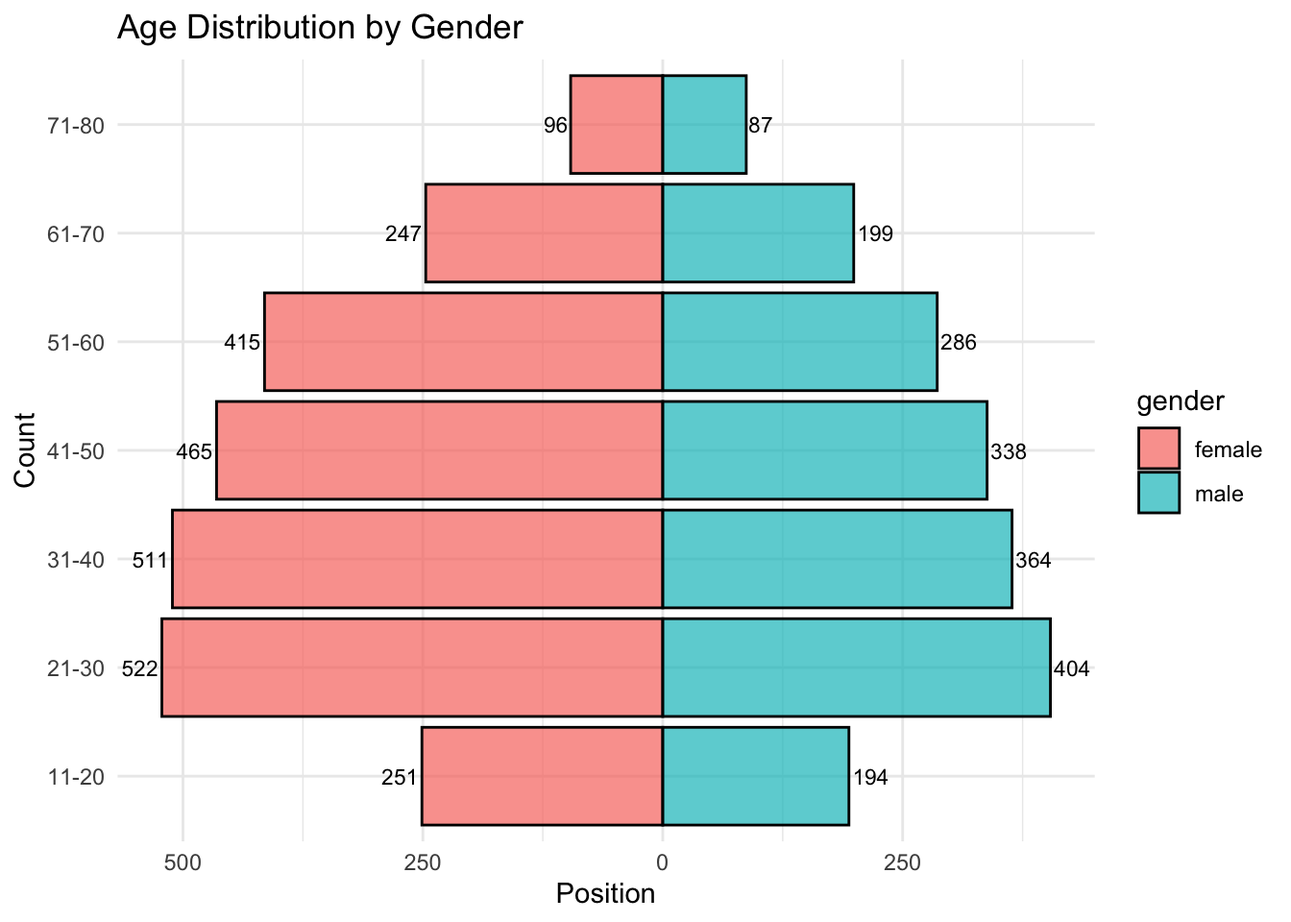
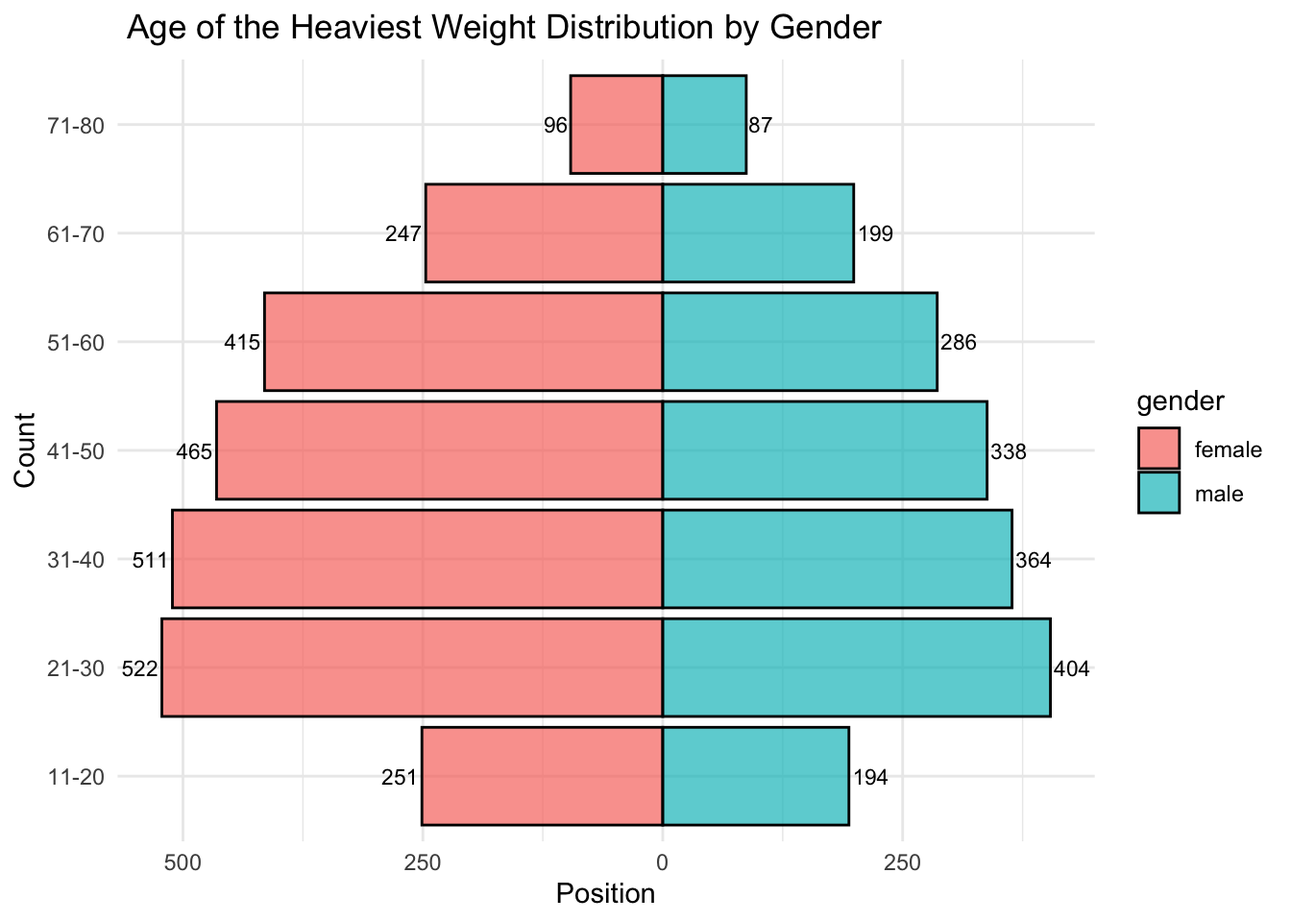
update text

Changed region(s): [[0.0938, 0.0, 0.6875, 0.0625]]

diff --git a/docs/results.html b/docs/results.html
@@ -183,8 +183,12 @@ pre > code.sourceCode > span > a:first-child::before { text-decoration: underlin
   <li><a href="#alluvial---bmi-level-change" id="toc-alluvial---bmi-level-change" class="nav-link" data-scroll-target="#alluvial---bmi-level-change"><span class="header-section-number">3.4</span> Alluvial - BMI Level Change</a></li>
   <li><a href="#grouped-bar-chart---current-bmi-by-age" id="toc-grouped-bar-chart---current-bmi-by-age" class="nav-link" data-scroll-target="#grouped-bar-chart---current-bmi-by-age"><span class="header-section-number">3.5</span> Grouped Bar Chart - Current BMI by Age</a></li>
   <li><a href="#violin-plot---bmi-distribution-by-race" id="toc-violin-plot---bmi-distribution-by-race" class="nav-link" data-scroll-target="#violin-plot---bmi-distribution-by-race"><span class="header-section-number">3.6</span> Violin Plot - BMI Distribution by Race</a></li>
-  <li><a href="#pyramid-chart---age-of-the-heaviest-weight-distribution-by-gender" id="toc-pyramid-chart---age-of-the-heaviest-weight-distribution-by-gender" class="nav-link" data-scroll-target="#pyramid-chart---age-of-the-heaviest-weight-distribution-by-gender"><span class="header-section-number">3.7</span> Pyramid Chart - Age of the Heaviest Weight Distribution by Gender</a></li>
-  <li><a href="#correlation-analysis-between-factors-and-bmi-change" id="toc-correlation-analysis-between-factors-and-bmi-change" class="nav-link" data-scroll-target="#correlation-analysis-between-factors-and-bmi-change"><span class="header-section-number">3.8</span> Correlation Analysis Between Factors and BMI Change</a></li>
+  <li><a href="#pyramid-chart---age-distribution-of-the-heaviest-weight-by-gender" id="toc-pyramid-chart---age-distribution-of-the-heaviest-weight-by-gender" class="nav-link" data-scroll-target="#pyramid-chart---age-distribution-of-the-heaviest-weight-by-gender"><span class="header-section-number">3.7</span> Pyramid Chart - Age Distribution of the Heaviest Weight by Gender</a></li>
+  <li><a href="#correlation-analysis-between-factors-and-bmi-change" id="toc-correlation-analysis-between-factors-and-bmi-change" class="nav-link" data-scroll-target="#correlation-analysis-between-factors-and-bmi-change"><span class="header-section-number">3.8</span> Correlation Analysis Between Factors and BMI Change</a>
+  <ul class="collapse">
+  <li><a href="#radar-chart---weight-loss-intentions-behavior-by-loss-weight-methods" id="toc-radar-chart---weight-loss-intentions-behavior-by-loss-weight-methods" class="nav-link" data-scroll-target="#radar-chart---weight-loss-intentions-behavior-by-loss-weight-methods"><span class="header-section-number">3.8.1</span> Radar Chart - Weight Loss Intentions &amp; Behavior by Loss Weight Methods</a></li>
+  <li><a href="#mosaic-plot---dieting-and-bmi" id="toc-mosaic-plot---dieting-and-bmi" class="nav-link" data-scroll-target="#mosaic-plot---dieting-and-bmi"><span class="header-section-number">3.8.2</span> Mosaic Plot - Dieting and BMI</a></li>
+  </ul></li>
   </ul>
 <div class="toc-actions"><div><i class="bi bi-github"></i></div><div class="action-links"><p><a href="https://github.com/YunjiQ/NHANESweight/edit/main/results.qmd" class="toc-action">Edit this page</a></p><p><a href="https://github.com/YunjiQ/NHANESweight/issues/new" class="toc-action">Report an issue</a></p></div></div></nav>
     </div>
@@ -350,35 +354,32 @@ pre > code.sourceCode > span > a:first-child::before { text-decoration: underlin
 </div>
 </div>
 </section>
-<section id="pyramid-chart---age-of-the-heaviest-weight-distribution-by-gender" class="level2" data-number="3.7">
-<h2 data-number="3.7" class="anchored" data-anchor-id="pyramid-chart---age-of-the-heaviest-weight-distribution-by-gender"><span class="header-section-number">3.7</span> Pyramid Chart - Age of the Heaviest Weight Distribution by Gender</h2>
+<section id="pyramid-chart---age-distribution-of-the-heaviest-weight-by-gender" class="level2" data-number="3.7">
+<h2 data-number="3.7" class="anchored" data-anchor-id="pyramid-chart---age-distribution-of-the-heaviest-weight-by-gender"><span class="header-section-number">3.7</span> Pyramid Chart - Age Distribution of the Heaviest Weight by Gender</h2>
+<p>This chart counts the age of heaviest weight by gender and segmented into distinct age groups, showing some noteworthy patterns in weight reporting trends. For most age groups, females reported their heaviest weight in higher numbers compared to males. But in our dataset, the total number of male and female are different. The age groups of 21-30 and 31-40 stand out with the highest counts of reported heaviest weight for both genders. This suggests that these age ranges are critical periods where individuals are most likely to gain a heaviest weight. The counts generally decrease for both genders as age increases, particularly beyond the age of 60.</p>
 <div class="cell">
 <details>
 <summary>Code</summary>
-<div class="sourceCode cell-code" id="cb7"><pre class="sourceCode r code-with-copy"><code class="sourceCode r"><span id="cb7-1"><a href="#cb7-1" aria-hidden="true" tabindex="-1"></a><span class="co"># min(whq$age_heaviest_weight) # 12</span></span>
-<span id="cb7-2"><a href="#cb7-2" aria-hidden="true" tabindex="-1"></a><span class="co"># max(whq$age_heaviest_weight) # 99999</span></span>
-<span id="cb7-3"><a href="#cb7-3" aria-hidden="true" tabindex="-1"></a><span class="co"># nrow(whq[whq$age_heaviest_weight &gt; 80, ]) # 21  </span></span>
-<span id="cb7-4"><a href="#cb7-4" aria-hidden="true" tabindex="-1"></a></span>
-<span id="cb7-5"><a href="#cb7-5" aria-hidden="true" tabindex="-1"></a>whq<span class="sc">$</span>age_group <span class="ot">&lt;-</span> <span class="fu">cut</span>(whq<span class="sc">$</span>age_heaviest_weight,</span>
-<span id="cb7-6"><a href="#cb7-6" aria-hidden="true" tabindex="-1"></a>                     <span class="at">breaks =</span> <span class="fu">c</span>(<span class="dv">10</span>, <span class="dv">20</span>, <span class="dv">30</span>, <span class="dv">40</span>, <span class="dv">50</span>, <span class="dv">60</span>, <span class="dv">70</span>, <span class="dv">80</span>),</span>
-<span id="cb7-7"><a href="#cb7-7" aria-hidden="true" tabindex="-1"></a>                     <span class="at">labels =</span> <span class="fu">c</span>(<span class="st">"11-20"</span>, <span class="st">"21-30"</span>, <span class="st">"31-40"</span>, <span class="st">"41-50"</span>, <span class="st">"51-60"</span>, <span class="st">"61-70"</span>, <span class="st">"71-80"</span>),</span>
-<span id="cb7-8"><a href="#cb7-8" aria-hidden="true" tabindex="-1"></a>                     <span class="at">include.lowest =</span> <span class="cn">TRUE</span>)</span>
-<span id="cb7-9"><a href="#cb7-9" aria-hidden="true" tabindex="-1"></a></span>
-<span id="cb7-10"><a href="#cb7-10" aria-hidden="true" tabindex="-1"></a>plot_data <span class="ot">&lt;-</span> whq <span class="sc">%&gt;%</span></span>
-<span id="cb7-11"><a href="#cb7-11" aria-hidden="true" tabindex="-1"></a>  <span class="fu">group_by</span>(age_group, gender) <span class="sc">%&gt;%</span></span>
-<span id="cb7-12"><a href="#cb7-12" aria-hidden="true" tabindex="-1"></a>  <span class="fu">summarise</span>(<span class="at">count =</span> <span class="fu">n</span>()) <span class="sc">%&gt;%</span></span>
-<span id="cb7-13"><a href="#cb7-13" aria-hidden="true" tabindex="-1"></a>  <span class="fu">ungroup</span>()</span>
-<span id="cb7-14"><a href="#cb7-14" aria-hidden="true" tabindex="-1"></a></span>
-<span id="cb7-15"><a href="#cb7-15" aria-hidden="true" tabindex="-1"></a>plot_data<span class="sc">$</span>count[plot_data<span class="sc">$</span>gender <span class="sc">==</span> <span class="st">"female"</span>] <span class="ot">&lt;-</span> <span class="sc">-</span>plot_data<span class="sc">$</span>count[plot_data<span class="sc">$</span>gender <span class="sc">==</span> <span class="st">"female"</span>]</span>
-<span id="cb7-16"><a href="#cb7-16" aria-hidden="true" tabindex="-1"></a></span>
-<span id="cb7-17"><a href="#cb7-17" aria-hidden="true" tabindex="-1"></a><span class="fu">ggplot</span>(plot_data, <span class="fu">aes</span>(<span class="at">x =</span> count, <span class="at">y =</span> age_group, <span class="at">fill =</span> gender)) <span class="sc">+</span></span>
-<span id="cb7-18"><a href="#cb7-18" aria-hidden="true" tabindex="-1"></a>  <span class="fu">geom_bar</span>(<span class="at">stat =</span> <span class="st">"identity"</span>, <span class="at">position =</span> <span class="st">"identity"</span>, <span class="at">color =</span> <span class="st">"black"</span>, <span class="at">alpha =</span> <span class="fl">0.7</span>) <span class="sc">+</span></span>
-<span id="cb7-19"><a href="#cb7-19" aria-hidden="true" tabindex="-1"></a>  <span class="fu">geom_text</span>(<span class="fu">aes</span>(<span class="at">label =</span> <span class="fu">abs</span>(count), <span class="at">hjust =</span> <span class="fu">ifelse</span>(count <span class="sc">&lt;</span> <span class="dv">0</span>, <span class="fl">1.1</span>, <span class="sc">-</span><span class="fl">0.1</span>)), <span class="at">color =</span> <span class="st">"black"</span>, <span class="at">size =</span> <span class="dv">3</span>) <span class="sc">+</span></span>
-<span id="cb7-20"><a href="#cb7-20" aria-hidden="true" tabindex="-1"></a>  <span class="fu">labs</span>(<span class="at">title =</span> <span class="st">"Age Distribution by Gender"</span>,</span>
-<span id="cb7-21"><a href="#cb7-21" aria-hidden="true" tabindex="-1"></a>       <span class="at">x =</span> <span class="st">"Position"</span>,</span>
-<span id="cb7-22"><a href="#cb7-22" aria-hidden="true" tabindex="-1"></a>       <span class="at">y =</span> <span class="st">"Count"</span>) <span class="sc">+</span></span>
-<span id="cb7-23"><a href="#cb7-23" aria-hidden="true" tabindex="-1"></a>  <span class="fu">scale_x_continuous</span>(<span class="at">labels =</span> abs) <span class="sc">+</span> </span>
-<span id="cb7-24"><a href="#cb7-24" aria-hidden="true" tabindex="-1"></a>  <span class="fu">theme_minimal</span>()</span></code><button title="Copy to Clipboard" class="code-copy-button"><i class="bi"></i></button></pre></div>
+<div class="sourceCode cell-code" id="cb7"><pre class="sourceCode r code-with-copy"><code class="sourceCode r"><span id="cb7-1"><a href="#cb7-1" aria-hidden="true" tabindex="-1"></a>whq<span class="sc">$</span>age_group <span class="ot">&lt;-</span> <span class="fu">cut</span>(whq<span class="sc">$</span>age_heaviest_weight,</span>
+<span id="cb7-2"><a href="#cb7-2" aria-hidden="true" tabindex="-1"></a>                     <span class="at">breaks =</span> <span class="fu">c</span>(<span class="dv">10</span>, <span class="dv">20</span>, <span class="dv">30</span>, <span class="dv">40</span>, <span class="dv">50</span>, <span class="dv">60</span>, <span class="dv">70</span>, <span class="dv">80</span>),</span>
+<span id="cb7-3"><a href="#cb7-3" aria-hidden="true" tabindex="-1"></a>                     <span class="at">labels =</span> <span class="fu">c</span>(<span class="st">"11-20"</span>, <span class="st">"21-30"</span>, <span class="st">"31-40"</span>, <span class="st">"41-50"</span>, <span class="st">"51-60"</span>, <span class="st">"61-70"</span>, <span class="st">"71-80"</span>),</span>
+<span id="cb7-4"><a href="#cb7-4" aria-hidden="true" tabindex="-1"></a>                     <span class="at">include.lowest =</span> <span class="cn">TRUE</span>)</span>
+<span id="cb7-5"><a href="#cb7-5" aria-hidden="true" tabindex="-1"></a></span>
+<span id="cb7-6"><a href="#cb7-6" aria-hidden="true" tabindex="-1"></a>plot_data <span class="ot">&lt;-</span> whq <span class="sc">%&gt;%</span></span>
+<span id="cb7-7"><a href="#cb7-7" aria-hidden="true" tabindex="-1"></a>  <span class="fu">group_by</span>(age_group, gender) <span class="sc">%&gt;%</span></span>
+<span id="cb7-8"><a href="#cb7-8" aria-hidden="true" tabindex="-1"></a>  <span class="fu">summarise</span>(<span class="at">count =</span> <span class="fu">n</span>()) <span class="sc">%&gt;%</span></span>
+<span id="cb7-9"><a href="#cb7-9" aria-hidden="true" tabindex="-1"></a>  <span class="fu">ungroup</span>()</span>
+<span id="cb7-10"><a href="#cb7-10" aria-hidden="true" tabindex="-1"></a></span>
+<span id="cb7-11"><a href="#cb7-11" aria-hidden="true" tabindex="-1"></a>plot_data<span class="sc">$</span>count[plot_data<span class="sc">$</span>gender <span class="sc">==</span> <span class="st">"female"</span>] <span class="ot">&lt;-</span> <span class="sc">-</span>plot_data<span class="sc">$</span>count[plot_data<span class="sc">$</span>gender <span class="sc">==</span> <span class="st">"female"</span>]</span>
+<span id="cb7-12"><a href="#cb7-12" aria-hidden="true" tabindex="-1"></a></span>
+<span id="cb7-13"><a href="#cb7-13" aria-hidden="true" tabindex="-1"></a><span class="fu">ggplot</span>(plot_data, <span class="fu">aes</span>(<span class="at">x =</span> count, <span class="at">y =</span> age_group, <span class="at">fill =</span> gender)) <span class="sc">+</span></span>
+<span id="cb7-14"><a href="#cb7-14" aria-hidden="true" tabindex="-1"></a>  <span class="fu">geom_bar</span>(<span class="at">stat =</span> <span class="st">"identity"</span>, <span class="at">position =</span> <span class="st">"identity"</span>, <span class="at">color =</span> <span class="st">"black"</span>, <span class="at">alpha =</span> <span class="fl">0.7</span>) <span class="sc">+</span></span>
+<span id="cb7-15"><a href="#cb7-15" aria-hidden="true" tabindex="-1"></a>  <span class="fu">geom_text</span>(<span class="fu">aes</span>(<span class="at">label =</span> <span class="fu">abs</span>(count), <span class="at">hjust =</span> <span class="fu">ifelse</span>(count <span class="sc">&lt;</span> <span class="dv">0</span>, <span class="fl">1.1</span>, <span class="sc">-</span><span class="fl">0.1</span>)), <span class="at">color =</span> <span class="st">"black"</span>, <span class="at">size =</span> <span class="dv">3</span>) <span class="sc">+</span></span>
+<span id="cb7-16"><a href="#cb7-16" aria-hidden="true" tabindex="-1"></a>  <span class="fu">labs</span>(<span class="at">title =</span> <span class="st">" Age of the Heaviest Weight Distribution by Gender"</span>,</span>
+<span id="cb7-17"><a href="#cb7-17" aria-hidden="true" tabindex="-1"></a>       <span class="at">x =</span> <span class="st">"Position"</span>,</span>
+<span id="cb7-18"><a href="#cb7-18" aria-hidden="true" tabindex="-1"></a>       <span class="at">y =</span> <span class="st">"Count"</span>) <span class="sc">+</span></span>
+<span id="cb7-19"><a href="#cb7-19" aria-hidden="true" tabindex="-1"></a>  <span class="fu">scale_x_continuous</span>(<span class="at">labels =</span> abs) <span class="sc">+</span> </span>
+<span id="cb7-20"><a href="#cb7-20" aria-hidden="true" tabindex="-1"></a>  <span class="fu">theme_minimal</span>()</span></code><button title="Copy to Clipboard" class="code-copy-button"><i class="bi"></i></button></pre></div>
 </details>
 <div class="cell-output-display">
 <p><img src="results_files/figure-html/unnamed-chunk-10-1.png" class="img-fluid" width="672"></p>
@@ -387,71 +388,78 @@ pre > code.sourceCode > span > a:first-child::before { text-decoration: underlin
 </section>
 <section id="correlation-analysis-between-factors-and-bmi-change" class="level2" data-number="3.8">
 <h2 data-number="3.8" class="anchored" data-anchor-id="correlation-analysis-between-factors-and-bmi-change"><span class="header-section-number">3.8</span> Correlation Analysis Between Factors and BMI Change</h2>
+<section id="radar-chart---weight-loss-intentions-behavior-by-loss-weight-methods" class="level3" data-number="3.8.1">
+<h3 data-number="3.8.1" class="anchored" data-anchor-id="radar-chart---weight-loss-intentions-behavior-by-loss-weight-methods"><span class="header-section-number">3.8.1</span> Radar Chart - Weight Loss Intentions &amp; Behavior by Loss Weight Methods</h3>
+<p>The radar chart provides a multi-faceted into the dietary intention and behaviors of individuals across various factors. The axes radiating from the center represent different dietary factors including ‘eat less,’ ‘less fat,’ ‘fewer carbs,’ ‘less sugar,’ ‘more vegetables,’ ‘low calories,’ and ‘skipping meals’. Each axis is scored from 0 to 100%, indicating the percentage of individuals who either intend to or actually engage in the behavior associated with each factor.</p>
+<p>The chart shows that for most dietary factors, the intention to engage in a specific behavior is higher than the actual behavior itself. Less than half of the people who have intention to lose weight actually behavior on it. The greatest discrepancy between intention and behavior appears in ‘eat less’ and ‘more vege’. And more people behavior on lossing weight by ‘eat less’, ‘more vege’, and ‘less suger’</p>
+<pre><code>::: {.cell}
+
+```{.r .cell-code}
+library(fmsb)
+library(dplyr)
+
+whq_intent &lt;- sapply(subset(whq, change_intentional == TRUE &amp; change_behavior == FALSE,
+select=eat_less:less_fat),as.logical)
+
+whq_behavior &lt;- sapply(subset(whq, change_intentional == FALSE &amp; change_behavior == TRUE,
+select=eat_less:less_fat), as.logical)
+  
+whq_intent_counts &lt;- colSums(whq_intent)
+whq_intent_df &lt;- t(as.data.frame(whq_intent_counts))
+whq_behavior_counts &lt;- colSums(whq_behavior)
+whq_behavior_df &lt;- t(as.data.frame(whq_behavior_counts))
+ 
+whq_int_beh &lt;- as.data.frame(rbind(rep(2000,1800) , rep(200,400), whq_intent_df, whq_behavior_df))
+ 
+radarchart(whq_int_beh,
+           axistype = 1, 
+           pcol = c("lightblue", "orange"),
+           plwd = 2, 
+           cglcol="grey", cglty=1, axislabcol="grey", cglwd=0.8,
+           vlcex = 1 )
+
+legend("right",
+       legend = c("Intention", "Behavior"), 
+       col = c("lightblue", "orange"),
+       lty = 1, lwd = 2,
+       pch = c(10, 10),
+       pt.cex = 1,
+       cex = 0.8) 
+```
+
+::: {.cell-output-display}
+![](results_files/figure-html/unnamed-chunk-11-1.png){width=672}
+:::
+:::</code></pre>
+</section>
+<section id="mosaic-plot---dieting-and-bmi" class="level3" data-number="3.8.2">
+<h3 data-number="3.8.2" class="anchored" data-anchor-id="mosaic-plot---dieting-and-bmi"><span class="header-section-number">3.8.2</span> Mosaic Plot - Dieting and BMI</h3>
+<pre><code>::: {.cell}
+
+```{.r .cell-code}
+library(grid)
+library(vcd)
+library(RColorBrewer)
+
+# mosaic plot
+dieting_sub_df &lt;- whq |&gt;
+  group_by(bmi_level_change, eat_less, skip_meal, low_cal) |&gt;
+  summarise(frequency = n(), .groups = 'drop') |&gt;
+  rename("Freq" = frequency)
+
+mosaic(bmi_level_change ~ eat_less + skip_meal + low_cal, dieting_sub_df , direction = c("v", "v", "h", "h"),
+       highlighting_fill= rev(brewer.pal(3, "RdBu")),
+       rot_labels = 0,
+       margins = c(5, 10, 10, 10),
+       main = "Mosaic plot for Dieting and BMI")
+```
+
+::: {.cell-output-display}
+![](results_files/figure-html/unnamed-chunk-12-1.png){width=1152}
+:::
+:::</code></pre>
 <ul>
-<li><p>Weight Loss Intentions &amp; Behavior</p>
-<div class="cell">
-<details>
-<summary>Code</summary>
-<div class="sourceCode cell-code" id="cb8"><pre class="sourceCode r code-with-copy"><code class="sourceCode r"><span id="cb8-1"><a href="#cb8-1" aria-hidden="true" tabindex="-1"></a><span class="fu">library</span>(fmsb)</span>
-<span id="cb8-2"><a href="#cb8-2" aria-hidden="true" tabindex="-1"></a><span class="fu">library</span>(dplyr)</span>
-<span id="cb8-3"><a href="#cb8-3" aria-hidden="true" tabindex="-1"></a></span>
-<span id="cb8-4"><a href="#cb8-4" aria-hidden="true" tabindex="-1"></a>whq_intent <span class="ot">&lt;-</span> <span class="fu">sapply</span>(<span class="fu">subset</span>(whq, change_intentional <span class="sc">==</span> <span class="cn">TRUE</span> <span class="sc">&amp;</span> change_behavior <span class="sc">==</span> <span class="cn">FALSE</span>,</span>
-<span id="cb8-5"><a href="#cb8-5" aria-hidden="true" tabindex="-1"></a><span class="at">select=</span>eat_less<span class="sc">:</span>less_fat),as.logical)</span>
-<span id="cb8-6"><a href="#cb8-6" aria-hidden="true" tabindex="-1"></a></span>
-<span id="cb8-7"><a href="#cb8-7" aria-hidden="true" tabindex="-1"></a>whq_behavior <span class="ot">&lt;-</span> <span class="fu">sapply</span>(<span class="fu">subset</span>(whq, change_intentional <span class="sc">==</span> <span class="cn">FALSE</span> <span class="sc">&amp;</span> change_behavior <span class="sc">==</span> <span class="cn">TRUE</span>,</span>
-<span id="cb8-8"><a href="#cb8-8" aria-hidden="true" tabindex="-1"></a><span class="at">select=</span>eat_less<span class="sc">:</span>less_fat), as.logical)</span>
-<span id="cb8-9"><a href="#cb8-9" aria-hidden="true" tabindex="-1"></a></span>
-<span id="cb8-10"><a href="#cb8-10" aria-hidden="true" tabindex="-1"></a>whq_intent_counts <span class="ot">&lt;-</span> <span class="fu">colSums</span>(whq_intent)</span>
-<span id="cb8-11"><a href="#cb8-11" aria-hidden="true" tabindex="-1"></a>whq_intent_df <span class="ot">&lt;-</span> <span class="fu">t</span>(<span class="fu">as.data.frame</span>(whq_intent_counts))</span>
-<span id="cb8-12"><a href="#cb8-12" aria-hidden="true" tabindex="-1"></a>whq_behavior_counts <span class="ot">&lt;-</span> <span class="fu">colSums</span>(whq_behavior)</span>
-<span id="cb8-13"><a href="#cb8-13" aria-hidden="true" tabindex="-1"></a>whq_behavior_df <span class="ot">&lt;-</span> <span class="fu">t</span>(<span class="fu">as.data.frame</span>(whq_behavior_counts))</span>
-<span id="cb8-14"><a href="#cb8-14" aria-hidden="true" tabindex="-1"></a></span>
-<span id="cb8-15"><a href="#cb8-15" aria-hidden="true" tabindex="-1"></a>whq_int_beh <span class="ot">&lt;-</span> <span class="fu">as.data.frame</span>(<span class="fu">rbind</span>(<span class="fu">rep</span>(<span class="dv">2000</span>,<span class="dv">1800</span>) , <span class="fu">rep</span>(<span class="dv">200</span>,<span class="dv">400</span>), whq_intent_df, whq_behavior_df))</span>
-<span id="cb8-16"><a href="#cb8-16" aria-hidden="true" tabindex="-1"></a></span>
-<span id="cb8-17"><a href="#cb8-17" aria-hidden="true" tabindex="-1"></a><span class="fu">radarchart</span>(whq_int_beh,</span>
-<span id="cb8-18"><a href="#cb8-18" aria-hidden="true" tabindex="-1"></a>           <span class="at">axistype =</span> <span class="dv">1</span>, </span>
-<span id="cb8-19"><a href="#cb8-19" aria-hidden="true" tabindex="-1"></a>           <span class="at">pcol =</span> <span class="fu">c</span>(<span class="st">"lightblue"</span>, <span class="st">"orange"</span>),</span>
-<span id="cb8-20"><a href="#cb8-20" aria-hidden="true" tabindex="-1"></a>           <span class="at">plwd =</span> <span class="dv">2</span>, </span>
-<span id="cb8-21"><a href="#cb8-21" aria-hidden="true" tabindex="-1"></a>           <span class="at">cglcol=</span><span class="st">"grey"</span>, <span class="at">cglty=</span><span class="dv">1</span>, <span class="at">axislabcol=</span><span class="st">"grey"</span>, <span class="at">cglwd=</span><span class="fl">0.8</span>,</span>
-<span id="cb8-22"><a href="#cb8-22" aria-hidden="true" tabindex="-1"></a>           <span class="at">vlcex =</span> <span class="dv">1</span> )</span>
-<span id="cb8-23"><a href="#cb8-23" aria-hidden="true" tabindex="-1"></a></span>
-<span id="cb8-24"><a href="#cb8-24" aria-hidden="true" tabindex="-1"></a><span class="fu">legend</span>(<span class="st">"right"</span>,</span>
-<span id="cb8-25"><a href="#cb8-25" aria-hidden="true" tabindex="-1"></a>       <span class="at">legend =</span> <span class="fu">c</span>(<span class="st">"Intention"</span>, <span class="st">"Behavior"</span>), </span>
-<span id="cb8-26"><a href="#cb8-26" aria-hidden="true" tabindex="-1"></a>       <span class="at">col =</span> <span class="fu">c</span>(<span class="st">"lightblue"</span>, <span class="st">"orange"</span>),</span>
-<span id="cb8-27"><a href="#cb8-27" aria-hidden="true" tabindex="-1"></a>       <span class="at">lty =</span> <span class="dv">1</span>, <span class="at">lwd =</span> <span class="dv">2</span>,</span>
-<span id="cb8-28"><a href="#cb8-28" aria-hidden="true" tabindex="-1"></a>       <span class="at">pch =</span> <span class="fu">c</span>(<span class="dv">10</span>, <span class="dv">10</span>),</span>
-<span id="cb8-29"><a href="#cb8-29" aria-hidden="true" tabindex="-1"></a>       <span class="at">pt.cex =</span> <span class="dv">1</span>,</span>
-<span id="cb8-30"><a href="#cb8-30" aria-hidden="true" tabindex="-1"></a>       <span class="at">cex =</span> <span class="fl">0.8</span>) </span></code><button title="Copy to Clipboard" class="code-copy-button"><i class="bi"></i></button></pre></div>
-</details>
-<div class="cell-output-display">
-<p><img src="results_files/figure-html/unnamed-chunk-11-1.png" class="img-fluid" width="672"></p>
-</div>
-</div></li>
-<li><p>Dieting and BMI</p>
-<div class="cell">
-<details>
-<summary>Code</summary>
-<div class="sourceCode cell-code" id="cb9"><pre class="sourceCode r code-with-copy"><code class="sourceCode r"><span id="cb9-1"><a href="#cb9-1" aria-hidden="true" tabindex="-1"></a><span class="fu">library</span>(grid)</span>
-<span id="cb9-2"><a href="#cb9-2" aria-hidden="true" tabindex="-1"></a><span class="fu">library</span>(vcd)</span>
-<span id="cb9-3"><a href="#cb9-3" aria-hidden="true" tabindex="-1"></a><span class="fu">library</span>(RColorBrewer)</span>
-<span id="cb9-4"><a href="#cb9-4" aria-hidden="true" tabindex="-1"></a></span>
-<span id="cb9-5"><a href="#cb9-5" aria-hidden="true" tabindex="-1"></a><span class="co"># mosaic plot</span></span>
-<span id="cb9-6"><a href="#cb9-6" aria-hidden="true" tabindex="-1"></a>dieting_sub_df <span class="ot">&lt;-</span> whq <span class="sc">|&gt;</span></span>
-<span id="cb9-7"><a href="#cb9-7" aria-hidden="true" tabindex="-1"></a>  <span class="fu">group_by</span>(bmi_level_change, eat_less, skip_meal, low_cal) <span class="sc">|&gt;</span></span>
-<span id="cb9-8"><a href="#cb9-8" aria-hidden="true" tabindex="-1"></a>  <span class="fu">summarise</span>(<span class="at">frequency =</span> <span class="fu">n</span>(), <span class="at">.groups =</span> <span class="st">'drop'</span>) <span class="sc">|&gt;</span></span>
-<span id="cb9-9"><a href="#cb9-9" aria-hidden="true" tabindex="-1"></a>  <span class="fu">rename</span>(<span class="st">"Freq"</span> <span class="ot">=</span> frequency)</span>
-<span id="cb9-10"><a href="#cb9-10" aria-hidden="true" tabindex="-1"></a></span>
-<span id="cb9-11"><a href="#cb9-11" aria-hidden="true" tabindex="-1"></a><span class="fu">mosaic</span>(bmi_level_change <span class="sc">~</span> eat_less <span class="sc">+</span> skip_meal <span class="sc">+</span> low_cal, dieting_sub_df , <span class="at">direction =</span> <span class="fu">c</span>(<span class="st">"v"</span>, <span class="st">"v"</span>, <span class="st">"h"</span>, <span class="st">"h"</span>),</span>
-<span id="cb9-12"><a href="#cb9-12" aria-hidden="true" tabindex="-1"></a>       <span class="at">highlighting_fill=</span> <span class="fu">rev</span>(<span class="fu">brewer.pal</span>(<span class="dv">3</span>, <span class="st">"RdBu"</span>)),</span>
-<span id="cb9-13"><a href="#cb9-13" aria-hidden="true" tabindex="-1"></a>       <span class="at">rot_labels =</span> <span class="dv">0</span>,</span>
-<span id="cb9-14"><a href="#cb9-14" aria-hidden="true" tabindex="-1"></a>       <span class="at">margins =</span> <span class="fu">c</span>(<span class="dv">5</span>, <span class="dv">10</span>, <span class="dv">10</span>, <span class="dv">10</span>),</span>
-<span id="cb9-15"><a href="#cb9-15" aria-hidden="true" tabindex="-1"></a>       <span class="at">main =</span> <span class="st">"Mosaic plot for Dieting and BMI"</span>)</span></code><button title="Copy to Clipboard" class="code-copy-button"><i class="bi"></i></button></pre></div>
-</details>
-<div class="cell-output-display">
-<p><img src="results_files/figure-html/unnamed-chunk-12-1.png" class="img-fluid" width="1152"></p>
-</div>
-</div></li>
-<li><p>Dietary Preferences</p></li>
+<li>Dietary Preferences</li>
 </ul>
 <div class="cell">
 <details>
@@ -569,6 +577,7 @@ pre > code.sourceCode > span > a:first-child::before { text-decoration: underlin
 </ul>
 
 
+</section>
 </section>
 
 </main> <!-- /main -->
